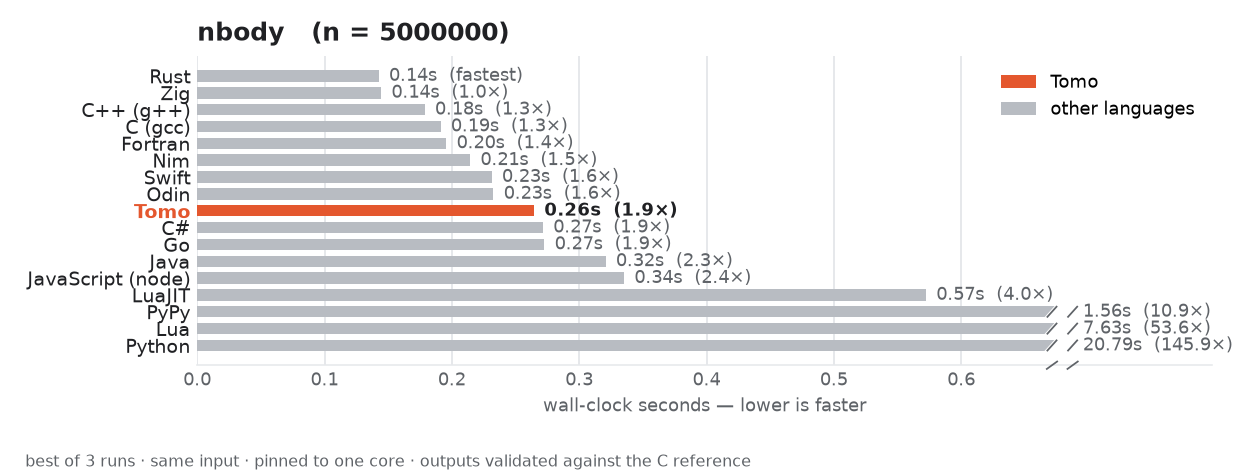
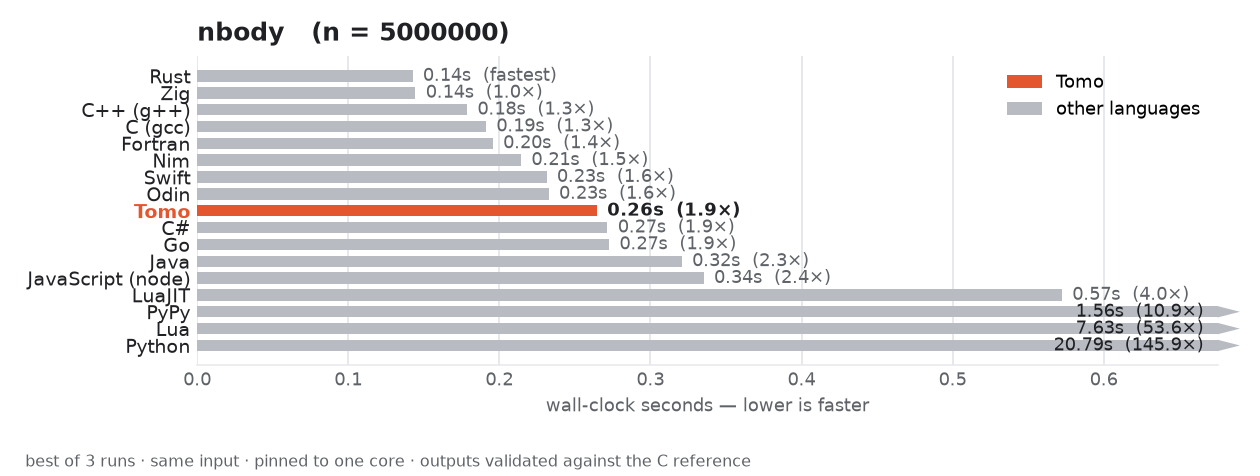
Truncate the axis past the outliers instead of breaking it
Simpler than either of the last two attempts, and nothing on the chart
is drawn at a scale of its own: the axis just stops after the rest of
the field -- ordinary linear axis, ordinary ticks -- and the entries
that don't fit run off the end of it, each marked with an arrowhead at
the edge and labeled inside the bar with its real time and slowdown.

Three panels truncate (n-body at 0.57s, mandelbrot at 2.16s,
spectral-norm at 1.32s); the other six show every language in full.

diff --git a/benchmarks/plot.py b/benchmarks/plot.py
@@ -8,9 +8,10 @@ construction (one accent vs. gray). Each bar is directly labeled with its
 wall-clock time and slowdown relative to the fastest language.
 
 Where a few entries are far slower than the rest of the field (Python is 300x
-the leader on spectral-norm), the panel's x-axis is cut short of them: one cut
-per panel, the same scale on every bar, and a bar that runs into the cut ends
-in a zigzag and keeps its real time as its label. See break_at() for where.
+the leader on spectral-norm), the panel's x-axis is truncated to the rest of
+the field: an ordinary axis, just a shorter one. The entries that don't fit run
+off the end of it, marked with an arrowhead and labeled with their real time.
+See truncate_at() for where.
 
 Writes a combined overview (<out>.svg/.png, all benchmarks stacked) plus one
 standalone graph per benchmark (<out>-<benchmark>.svg/.png).
@@ -39,24 +40,20 @@ GRID = "#e6e8eb"
 
 # A few very slow entries squash everyone else: on spectral-norm Python takes
 # 182s against a 0.61s leader, so every other bar is a sliver. The panel then
-# cuts its x-axis: the segment past the cut is not drawn at all, and a bar that
-# runs into it ends in a zigzag and keeps its real time as its label. The scale
-# never changes -- every bar on the chart, cut or not, is drawn at the same
-# seconds-per-inch, so bar lengths stay comparable. Where to cut is derived
-# from the data rather than fixed at some number of seconds: sort the times and
-# cut above the *lowest* neighbor-to-neighbor jump that is big enough to matter
-# and leaves only a few entries above it -- the lowest such jump, not the
-# biggest, because it is the one that wins back the most axis for the pack
-# (mandelbrot's biggest jump is Lua->Python at the very top, where cutting
-# would leave the field just as squashed).
-BREAK_JUMP = 2.5        # a jump this large can host the cut...
+# truncates its x-axis to the rest of the field -- an ordinary axis, ordinary
+# linear scale, ordinary ticks, just a shorter one -- and the entries that do
+# not fit run off the end of it, marked with an arrowhead and labeled with
+# their real time inside the bar. Where to truncate is derived from the data
+# rather than fixed at some number of seconds: sort the times and truncate
+# above the *lowest* neighbor-to-neighbor jump that is big enough to matter and
+# leaves only a few entries above it -- the lowest such jump, not the biggest,
+# because it is the one that wins back the most axis for the pack (mandelbrot's
+# biggest jump is Lua->Python at the very top, where truncating there would
+# leave the field just as squashed).
+BREAK_JUMP = 2.5        # a jump this large can host the truncation...
 BREAK_MAX_SHARE = 0.25  # ...if at most this fraction of the field is above it
 BREAK_MIN_SQUASH = 0.4  # ...and the rest is squashed into this fraction of the
                         #    axis, i.e. there is real room to be won back
-# Clear space (as a share of the pack's own range) left between the longest bar
-# that fits and the cut, so a cut bar plainly outruns it rather than looking a
-# hair longer.
-BREAK_CLEARANCE = 0.18
 
 
 def load(path):
@@ -64,11 +61,11 @@ def load(path):
         return json.load(f)
 
 
-def break_at(times):
-    """Cut the axis at this value, or None to draw every bar in full.
+def truncate_at(times):
+    """The slowest time the panel still shows, or None to show them all.
 
-    `times` must be sorted ascending. The cut sits above the last bar that
-    fits, never right against it.
+    `times` must be sorted ascending. Everything above the returned value runs
+    off the end of the axis.
     """
     slowest = times[-1] if times else 0.0
     if len(times) < 4 or slowest <= 0:
@@ -80,27 +77,16 @@ def break_at(times):
         # ...but only if the field really is being squashed; if it already
         # fills a decent share of the axis there is nothing to win back.
         if times[i - 1] / slowest <= BREAK_MIN_SQUASH:
-            return times[i - 1] * (1 + BREAK_CLEARANCE)
+            return times[i - 1]
     return None
 
 
-def draw_bar_break(ax, x, yi, height, dx):
-    """Zigzag the end of a bar that runs into the cut."""
+def draw_offchart(ax, xlim, yi, height, color):
+    """Arrowhead at the axis edge: this bar keeps going past the chart."""
     h = height / 2
-    # A white wedge eats the bar's end, with a slash fencing off each side.
-    ax.fill([x - 2.5 * dx, x - 0.5 * dx, x + 2.5 * dx, x + 0.5 * dx],
-            [yi + h, yi - h, yi - h, yi + h], color="white", zorder=4, linewidth=0)
-    for off in (-2 * dx, 2 * dx):
-        ax.plot([x + off, x + off + 2 * dx], [yi + h, yi - h], color=MUTED,
-                linewidth=0.9, zorder=5, solid_capstyle="butt")
-
-
-def draw_axis_break(ax, x, dx):
-    """The same zigzag on the x-axis itself, where it is cut."""
-    for off in (-2 * dx, 2 * dx):
-        ax.plot([x + off, x + off + 2 * dx], [-0.012, 0.012],
-                transform=ax.get_xaxis_transform(), color=MUTED, linewidth=0.9,
-                clip_on=False, zorder=5)
+    tip = xlim * 1.022
+    ax.fill([xlim, tip, xlim], [yi + h, yi, yi - h], color=color, zorder=4,
+            linewidth=0, clip_on=False)
 
 
 def panel(ax, bname, block):
@@ -125,9 +111,15 @@ def panel(ax, bname, block):
             colors.append(NEUTRAL)
 
     # A few runaway entries would squash the rest of the field into slivers, so
-    # the axis is cut short of them (see break_at); the scale is unchanged.
-    cut = break_at(times)
-    widths = [min(s, cut) for s in times] if cut else times
+    # the axis stops at the rest of the field (see truncate_at) and they run off
+    # the end of it. The axis is an ordinary one either way -- same linear
+    # scale, same ticks -- so bar lengths mean the same thing throughout.
+    shown = truncate_at(times)
+    xmax = shown if shown is not None else (max(times) if times else 1.0)
+    # The usual headroom past the longest bar is where its label goes; an
+    # off-chart bar fills it and carries its label inside itself instead.
+    xlim = xmax * 1.18
+    widths = [min(s, xlim) for s in times]
 
     # Draw top (fastest) at the top of the panel.
     ax.barh(y, widths, color=colors, height=0.68, zorder=3)
@@ -141,8 +133,7 @@ def panel(ax, bname, block):
             tick.set_color(ACCENT)
             tick.set_fontweight("bold")
 
-    xmax = max(widths) if widths else 1.0
-    ax.set_xlim(0, xmax * 1.18)
+    ax.set_xlim(0, xlim)
     for spine in ("top", "right", "left"):
         ax.spines[spine].set_visible(False)
     ax.spines["bottom"].set_color(GRID)
@@ -150,23 +141,22 @@ def panel(ax, bname, block):
     ax.tick_params(axis="y", length=0)
     ax.xaxis.grid(True, color=GRID, linewidth=1, zorder=0)
     ax.set_axisbelow(True)
-    if cut is not None:
-        # Ticks stop at the cut: past it, the axis simply isn't there.
-        ax.set_xticks([t for t in ax.get_xticks() if 0 <= t <= cut])
-        draw_axis_break(ax, cut, xmax * 0.006)
-
-    for yi, (lang, _, s, valid), w in zip(y, rows, widths):
+    for yi, (lang, _, s, valid), w, color in zip(y, rows, widths, colors):
         rel = s / fastest if fastest else 1.0
         txt = f"{s:.2f}s" + (f"  ({rel:.1f}×)" if rel >= 1.005 else "  (fastest)")
         if not valid:
             txt += "  ✗ output"
-        pad = xmax * 0.012
-        if cut is not None and s > cut:
-            draw_bar_break(ax, cut, yi, 0.68, xmax * 0.006)
-            pad = xmax * 0.030  # clear of the zigzag
-        ax.text(w + pad, yi, txt, va="center", ha="left",
-                fontsize=9, color=INK if lang == "tomo" else MUTED,
-                fontweight="bold" if lang == "tomo" else "normal", zorder=4)
+        if w >= xlim:  # runs off the chart
+            draw_offchart(ax, xlim, yi, 0.68, color)
+            # The arrowhead already says "keeps going"; the label just needs
+            # to be inside the bar, since there is no room past it.
+            ax.text(w - xmax * 0.016, yi, txt, va="center", ha="right",
+                    fontsize=9, color="white" if lang == "tomo" else INK,
+                    fontweight="bold" if lang == "tomo" else "normal", zorder=5)
+        else:
+            ax.text(w + xmax * 0.012, yi, txt, va="center", ha="left",
+                    fontsize=9, color=INK if lang == "tomo" else MUTED,
+                    fontweight="bold" if lang == "tomo" else "normal", zorder=4)
 
     args = " ".join(block.get("args", []))
     ax.set_title(f"{bname}   (n = {args})", loc="left", fontsize=13,

diff --git a/benchmarks/README.md b/benchmarks/README.md
@@ -18,14 +18,13 @@ everything locally and regenerates these PNGs.
 ![Tomo vs. other languages across nine benchmarks](results.png)
 
 Where a handful of entries are far slower than the rest of the field, the
-panel's x-axis is **cut** short of them — one cut per panel, marked with a
-zigzag on the axis and on each bar that runs into it. Without it, Python's 182s
-on spectral-norm would squash the other eleven languages into slivers. The
-scale never changes across a panel: every bar, cut or not, is drawn at the same
-seconds per inch, so lengths stay comparable — a cut bar simply runs off the
-end, and its label carries the real time and slowdown. Where to cut is picked
-from the data (`break_at` in `plot.py`), not hardcoded per benchmark, and sits
-clear of the longest bar that fits so a cut bar plainly outruns it.
+panel's x-axis is **truncated** to the rest of the field — an ordinary linear
+axis, just a shorter one. Without it, Python's 182s on spectral-norm would
+squash the other eleven languages into slivers. The entries that don't fit run
+off the end of the axis, marked with an arrowhead and labeled with their real
+time and slowdown, so they're plainly off the chart rather than silently
+rescaled. Where to truncate is picked from the data (`truncate_at` in
+`plot.py`), not hardcoded per benchmark.
 
 With the field now up to ~17 languages across all nine of the CLBG's
 library-free benchmarks, the useful summary is that **Tomo sits inside the
